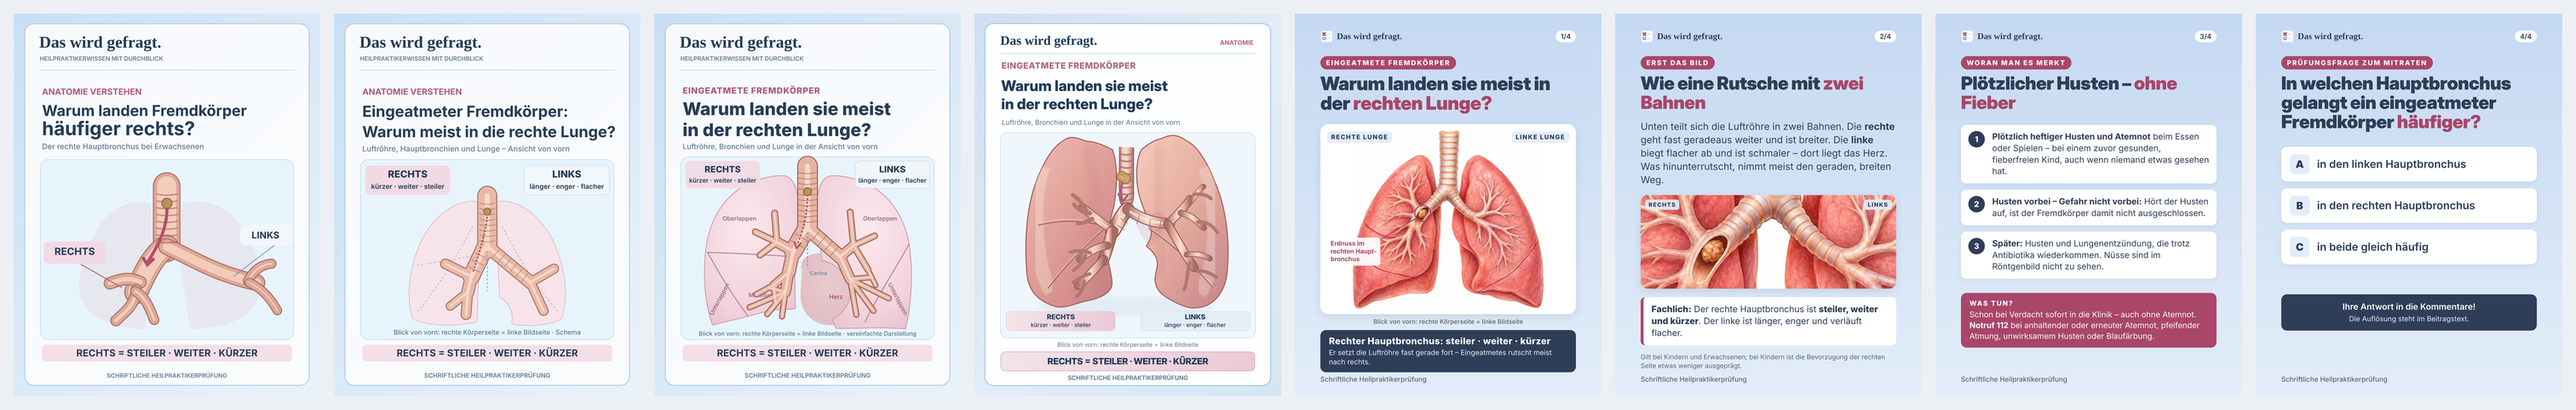
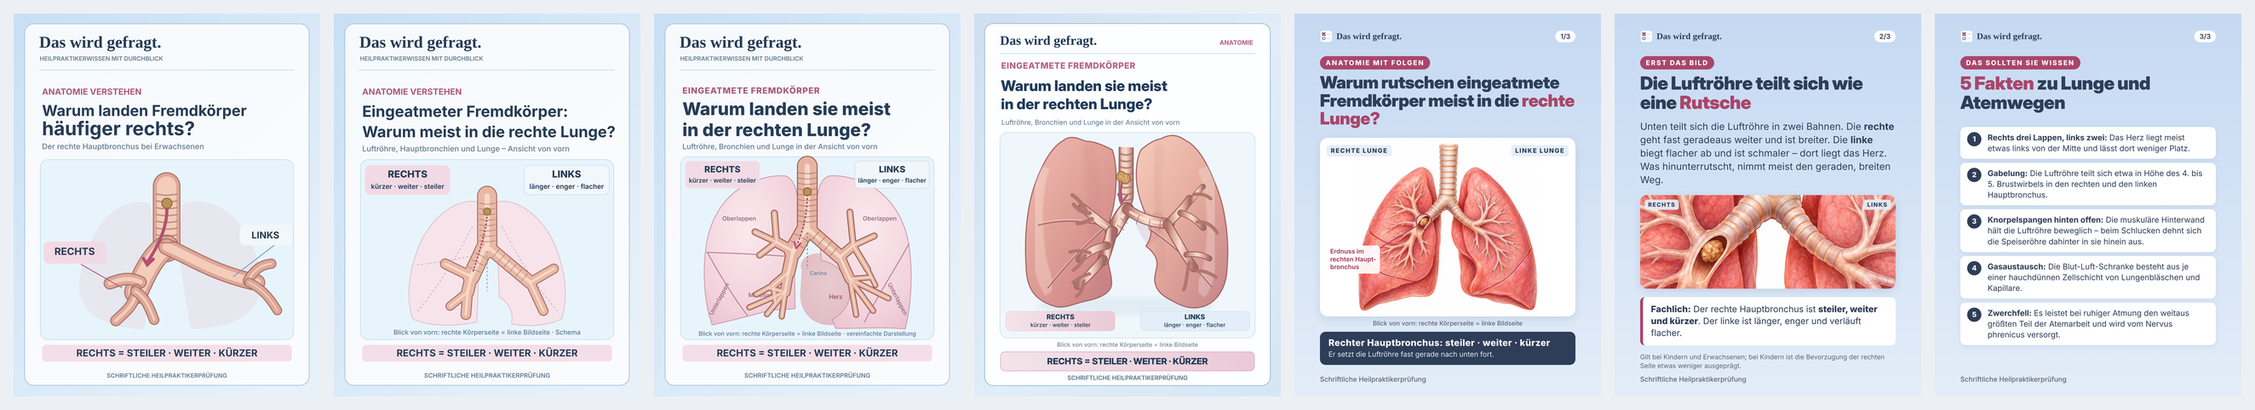
Bildmacher: Vorschaubilder erzeugt (Entwurf, keine Veröffentlichung)

diff --git a/entwuerfe/chatgpt-2026-11-bronchien-svg/VORSCHAU.md b/entwuerfe/chatgpt-2026-11-bronchien-svg/VORSCHAU.md
@@ -16,14 +16,11 @@
 ### folie_01_v3_chatgpt.png
 ![folie_01_v3_chatgpt.png](bilder/folie_01_v3_chatgpt.png)
 
-### folie_01_v4.png
-![folie_01_v4.png](bilder/folie_01_v4.png)
+### folie_01_v5.png
+![folie_01_v5.png](bilder/folie_01_v5.png)
 
-### folie_02_v4.png
-![folie_02_v4.png](bilder/folie_02_v4.png)
+### folie_02_v5.png
+![folie_02_v5.png](bilder/folie_02_v5.png)
 
-### folie_03_v4.png
-![folie_03_v4.png](bilder/folie_03_v4.png)
-
-### folie_04_v4.png
-![folie_04_v4.png](bilder/folie_04_v4.png)
+### folie_03_v5.png
+![folie_03_v5.png](bilder/folie_03_v5.png)
